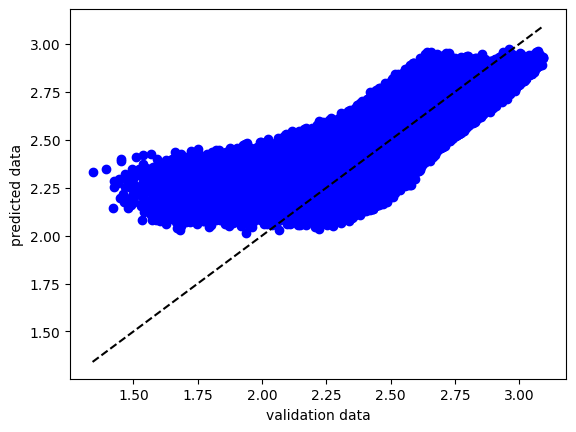
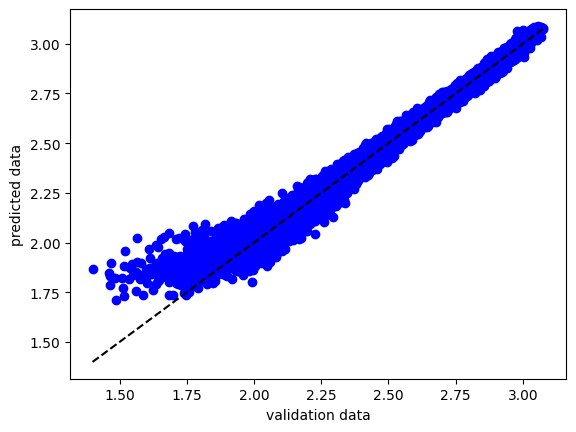
Detection probability: Trained SNR NN

diff --git a/det_probability/create_training_data.py b/det_probability/create_training_data.py
@@ -3,13 +3,12 @@ from multiprocessing import Pool
 from functools import partial
 
 import numpy as np
-np.random.seed(1895)
+np.random.seed(678920)
 import pandas as pd
 
 from astropy.time import Time
 from scipy.stats import stats
 
-import bilby
 from bilby.gw.conversion import luminosity_distance_to_redshift
 
 from GWFish.modules.detection import Network
@@ -68,18 +67,18 @@ def compute_chunk(df_chunk, network):
         "ra", "dec", "psi", "phase", "geocent_time"]
     
     events = df_chunk[cols]
-    breakpoint()
+    #breakpoint()
     return get_snr(events, network, waveform_model="IMRPhenomXAS_NRTidalv3")["network"].to_numpy()
 
-def parallel_snr(df, detectors: list[str], nprocs=1):
+def parallel_snr(df, detectors: list[str], nprocs=24):
         
         chunks = np.array_split(df, nprocs)
         network = Network(detectors)
-        #compute = partial(compute_chunk, network=network)
+        compute = partial(compute_chunk, network=network)
 
-        compute_chunk(df, network=network)
-        #with Pool(nprocs) as pool:
-        #    results = pool.map(compute, chunks)
+        #compute_chunk(df, network=network)
+        with Pool(nprocs) as pool:
+            results = pool.map(compute, chunks)
         
         result = np.concatenate(results)
 
@@ -231,17 +230,17 @@ def main():
 
 
     start = time.time()
-    df_ETL = generate_training_data(["ETL1", "ETL2"], size=5_000)
+    df_ETL = generate_training_data(["ETL1", "ETL2"], size=1_000_000)
     df_ETL.to_csv("./training_data/train_ETL.dat", sep=" ")
     end = time.time()
 
     print(f"ETL done, took {end-start} seconds.")
 
     start = time.time()
-    df_ETT = generate_training_data(["ETT"], size=5_000)
+    df_ETT = generate_training_data(["ETT"], size=1_000_000)
     df_ETT.to_csv("./training_data/train_ETT.dat", sep=" ")
     end = time.time()
-
+    
     print(f"ETT done, took {end-start} seconds.")
 
 

diff --git a/det_probability/training_data/convert_to_altaz.py b/det_probability/training_data/convert_to_altaz.py
@@ -13,12 +13,10 @@ ETL_location = EarthLocation(lat=40.5*u.deg, lon=9.35*u.deg, height=100*u.m)
 ETT_location = EarthLocation(lat=50.795483*u.deg, lon=5.848956*u.deg, height=100*u.m)
 
 def convert_df(df):
-    df["alt"] = np.zeros(df.shape[0])
-    df["dec"] = np.zeros(df.shape[0])
 
     mjd = Time(df["geocent_time"].to_numpy(), format="gps")
     target = SkyCoord(ra=df["ra"].to_numpy()*u.rad, dec=df["dec"].to_numpy()*u.rad, frame='icrs')
-    altaz_frame = AltAz(obstime=mjd, location=ETL_location)
+    altaz_frame = AltAz(obstime=mjd, location=ETT_location)
     sky_coords = target.transform_to(altaz_frame)
 
     df["alt"] = sky_coords.alt.rad
@@ -26,8 +24,8 @@ def convert_df(df):
 
     return df
 
-df_ETT = pd.read_csv("./train_ETL_3.dat", sep=" ")
+df_ETT = pd.read_csv("./train_ETT.dat", sep=" ")
 df_ETT = convert_df(df_ETT)
-df_ETT.to_csv("./train_ETL_3.dat", sep=" ")
+df_ETT.to_csv("./train_ETT.dat", sep=" ")
 
 

diff --git a/det_probability/training_data/test_training_data.py b/det_probability/training_data/test_training_data.py
@@ -1,0 +1,24 @@
+import numpy as np
+import pandas as pd
+import matplotlib.pyplot as plt
+
+np.random.seed(18950)
+
+from GWFish.modules.detection import Network
+from GWFish.modules.fishermatrix import compute_network_errors
+from GWFish.modules.fishermatrix import sky_localization_percentile_factor
+from GWFish.modules.utilities import get_snr
+
+
+events = pd.read_csv("train_ETL_test.dat", sep=" ")
+network = Network(["ETL1", "ETL2"])
+cols = ["mass_1", "mass_2", "luminosity_distance", "theta_jn",
+        "ra", "dec", "psi", "phase", "geocent_time"]
+
+new_snr = get_snr(events.loc[:1000, cols], network, waveform_model="IMRPhenomXAS_NRTidalv3")["network"].to_numpy()
+
+plt.scatter(events.loc[:1000, "snr"], new_snr)
+plt.plot(np.linspace(100, 1000, 2), np.linspace(100, 1000, 2), color="black", linestyle="dashed")
+plt.show()
+
+breakpoint()

diff --git a/det_probability/train_nn.py b/det_probability/train_nn.py
@@ -206,7 +206,7 @@ def main(file: str):
         input_ndim= train_X.shape[1],
         learning_rate=1e-2,
         nb_epochs=2000,
-        batch_size=2**16,
+        batch_size=500,
         optimizer="sgd"
     )
 
@@ -246,5 +246,5 @@ def main(file: str):
 
 
 if __name__=="__main__":
-    main("./training_data/train_ETL.dat")
+    #main("./training_data/train_ETL.dat")
     main("./training_data/train_ETT.dat")
